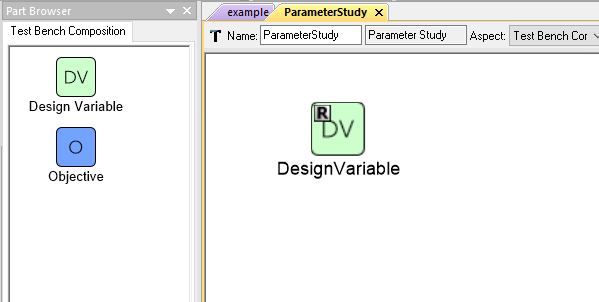
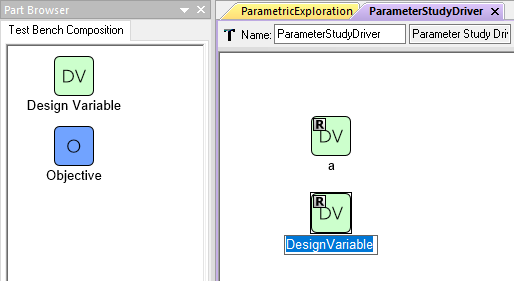
OPENMETA-348 OPENMETA-347 Rework PET Driver Docs.
OPENMETA-347 Updated documentation on Range attribute of Design Variable.

OPENMETA-348 Clean up docs by adding Driver Basics Section to describe
design variables and objectives before getting to the different types of
drivers.

Changed region(s): [[0.0, 0.0, 1.0, 1.0], [0.5292, 0.6761, 0.7471, 0.9014], [0.0, 0.0, 0.1556, 0.0563]]

diff --git a/docs/pet/pet_drivers.rst b/docs/pet/pet_drivers.rst
@@ -10,102 +10,93 @@ A PET Driver allows the user to:
 
 .. _pet_drivers_parameter_study:
 
-Parameter Study
----------------
+Driver Basics
+-------------
 
-The Parameter Study varies system inputs and records designated system outputs
-for each set of inputs.
+Adding a Driver to a PET
+~~~~~~~~~~~~~~~~~~~~~~~~
 
-Adding a Parameter Study to a PET
-~~~~~~~~~~~~~~~~~~~~~~~~~~~~~~~~~
-
-To add a Parameter Study to a PET, simply drag the **Parameter Study** icon from the
-Part Browser and onto the PET canvas.
+To add a *PET Driver* to a PET, simply left-click and drag the driver icon from the
+**Part Browser** and onto the PET canvas.
 
 .. figure:: images/ParameterStudy.png
-   :alt: text
+   :alt: Adding a Parameter Study Driver to a PET
 
-   A Parameter Study in a PET
+   Adding a Parameter Study Driver to a PET
 
-Design Variable
-~~~~~~~~~~~~~~~
+Design Variables
+~~~~~~~~~~~~~~~~
 
-A Design Variable placed inside a Parameter Study will appear as a port
-on the Parameter Study's PET model and can be connected to PET Analysis
+A Design Variable placed inside a PET Driver will appear as a port
+on the Driver's PET model and can be connected to PET Analysis
 Blocks.
 
-Over the course of a PET run, a Parameter Study Driver
-typically changes each Design Variable's value many times in order to
-provide the system being analyzed with different inputs. The Driver's Design
-Variables may be connected to the inputs of PET Analysis Blocks.
+Adding a Design Variable to a PET Driver
+^^^^^^^^^^^^^^^^^^^^^^^^^^^^^^^^^^^^^^^^
+   
+To add a Design Variable to a PET Driver, simply open the PET Model
+by double-clicking on the PET Driver in the PET Canvas and drag
+the **Design Variable** icon from the Part Browser and onto the canvas.
 
 .. figure:: images/DesignVariable.png
-   :alt: text
-
-   A Design Variable in a Parameter Study PET Driver
-
-.. figure:: images/DesignVariableConnected.png
-   :alt: text
-
-   A Parameter Study PET Driver's Design Variable connected to a PET Analysis Block
-
-Adding a Design Variable to a Parameter Study Driver
-^^^^^^^^^^^^^^^^^^^^^^^^^^^^^^^^^^^^^^^^^^^^^^^^^^^^
-
-To add a Design Variable to a Parameter Study Driver, simply drag
-the **Design Variable** icon from the Part Browser and onto the PET canvas.
+   :alt: Adding Design Variables to a Parameter Study Driver
+   
+   Adding Design Variables to a Parameter Study Driver
 
 Design Variable Range
 ^^^^^^^^^^^^^^^^^^^^^
 
 Each Design Variable has **Range** attribute
 that can be set by the user.
+This range can be expressed in a few different ways:
 
-To set a Design Variable's range:
-
-#. Left-click on the Design Variable
-   and edit the **Range** attribute in the **Object Inspector**.
-
-#. Enter the Design Variable's minimum value followed by
-   a comma followed by the Design Variable's maximum value.
-   (e.g. Entering **-50,34** in a Design Variable's **Range** attribute
-   will limit that Design Variable to values between **-50** and **+34 inclusive**).
+#. A single string or numeric value. E.g. ``25.0`` or ``Diesel``.
+#. A real-number interval. This can include closed or open intervals.
+   If the interval is expressed without either parentheses or brackets it
+   is assumed to be a closed interval. E.g. ``1,10`` signifies a closed
+   interval between one and ten and ``(0,10000]`` signifies a half-closed
+   interval from zero exclusive to ten thousand inclusive.
+#. A semicolon-separated enumeration of either quoted strings or numbers.
+   E.g. ``2;3;5;7;11;13;17;19`` or ``"red";"blue";"green"``.
 
 .. figure:: images/DesignVariableRange.png
    :alt: text
 
    Setting a Design Variable's range
 
-Objective
-~~~~~~~~~
+Objectives
+~~~~~~~~~~
 
-An Objective placed inside a Parameter Study will appear as a port
-on the Parameter Study's PET model and PET Analysis Blocks can be
+Objectives are used to specify which values we want to record or optimize
+towards during the execution of the PET.
+An *Objective* placed inside a PET Driver will appear as a port
+on the PET Driver's PET model and the outputs of PET Analysis Blocks can be
 connected to it.
 
-At every iteration of the Parameter Study, the Objective will record
-the value of the Metric connected to it.
-
-Adding an Objective to a Parameter Study Driver
+Adding an Objective to a PET Driver
 ^^^^^^^^^^^^^^^^^^^^^^^^^^^^^^^^^^^^^^^^^^^^^^^
 
-To add an Objective to a Parameter Study Driver, simply drag
-the **Objective** icon from the Part Browser and onto the Parameter Study canvas.
+To add an *Objective* to a PET Driver, simply drag
+the **Objective** icon from the Part Browser and onto
+the PET Model canvas as you did with Design Variables.
 
-.. figure:: images/Objective.png
-   :alt: text
+.. figure:: images/ParameterStudyDriverPopulated.png
+   :alt: A Parameter Study PET Driver with Design Variables **a** and **b** and Objective **c**
 
-   An Objective in a Optimizer PET Driver
+   A Parameter Study PET Driver with Design Variables **a** and **b**
+   and Objective **c**
 
-.. figure:: images/ObjectiveConnected.png
-   :alt: text
 
-   A PET Analysis Block connected to an Optimizer PET Driver's Objective
+Parameter Study
+---------------
 
-Parameter Study Attributes
-~~~~~~~~~~~~~~~~~~~~~~~~~~
+The Parameter Study Driver generates a set of inputs based on the type
+of Design of Experiments (DOE) that is being conducted. Then
+the driver evaluates the analysis workflow at each of the generated
+inputs sets and records the values of the objectives.
 
-Several critical Parameter Study attribute can be accessed by left-clicking
+The Parameter Study is configured by setting a adjusting a number
+of its attributes. These attributes can be accessed by left-clicking
 a Parameter Study and then looking under the **Attributes** tab of the
 **Object Inspector** window.
 
@@ -115,30 +106,31 @@ a Parameter Study and then looking under the **Attributes** tab of the
    A Parameter Study's Attributes
 
 Code
-^^^^
+~~~~
 
-Entering **num_samples=** followed by an integer number
-(e.g. **num_samples=10**) sets the number of Parameter Study samples.
+The **Code** attribute is used to pass configuration variables
+to underlying MDAO engine. For example, in the image above you can
+see entering we assigned the variable ``num_samples`` the value of ``10``.
 
-.. note:: The number of Parameter Study iterations (or data points)
-   depends on both **num_samples** and the **DOE Type**.
+See the `DOE Types`_ section below for more
+information on what code variables need to be set for each type.
 
-.. Surrogate Type:
-.. ^^^^^^^^^^^^^^^
+Surrogate Type
+~~~~~~~~~~~~~~
 
-.. ADD: This section.
+The **Surrogate Type** attribute is not currently documented.
 
-DOE Type:
-^^^^^^^^^
+DOE Types
+~~~~~~~~~
 
-The DOE Type determines the sampling method by which
+The **DOE Type** attribute determines the sampling method by which
 the Parameter Study explores the Design Variable space.
-
 Different DOE Types can be selected by left-clicking
-the **DOE Type** menu and selecting the desired method.
+the **DOE Type** attribute field and selecting the desired method.
+The different types and there accompanying configuration are described below.
 
 Full Factorial
-**************
+^^^^^^^^^^^^^^
 
 The Full Factorial type generates **DV^num_samples** input cases where
 **DV** is the number of Design Variables and **num_samples** is set
@@ -161,12 +153,12 @@ the PET will test the following *(x,y)* inputs: *(-10,-10), (-10,0),
 (-10,+10), (0,-10), (0,0), (0,+10), (+10,-10), (+10,0), (+10,+10)*.
 
 Central Composite
-*****************
+^^^^^^^^^^^^^^^^^
 
 This DOE type is currently unsupported.
 
 Opt Latin Hypercube
-*******************
+^^^^^^^^^^^^^^^^^^^
 
 The Opt Latin Hypercube type is a predetermined-samples driver that seeks to
 produce good coverage across all the dimensions. This is preferred to a Uniform
@@ -174,7 +166,7 @@ type of sampling in most cases as you have a higher probability of an
 evenly-sampled independent variables set.
 
 Uniform
-*******
+^^^^^^^
 
 The Uniform type generates **num_samples** input cases where **num_samples**
 is set in the **Code** attribute. The input cases are evenly distributed across
@@ -184,7 +176,7 @@ If **num_samples=1**, then, in the resulting single input case, each
 Design Variable will be set to its minimum value.
 
 CSV File
-********
+^^^^^^^^
 
 The CSV File type allows for an arbitrary set of test cases to be specified
 in a CSV file and then executed with the given analysis workflow. This is
